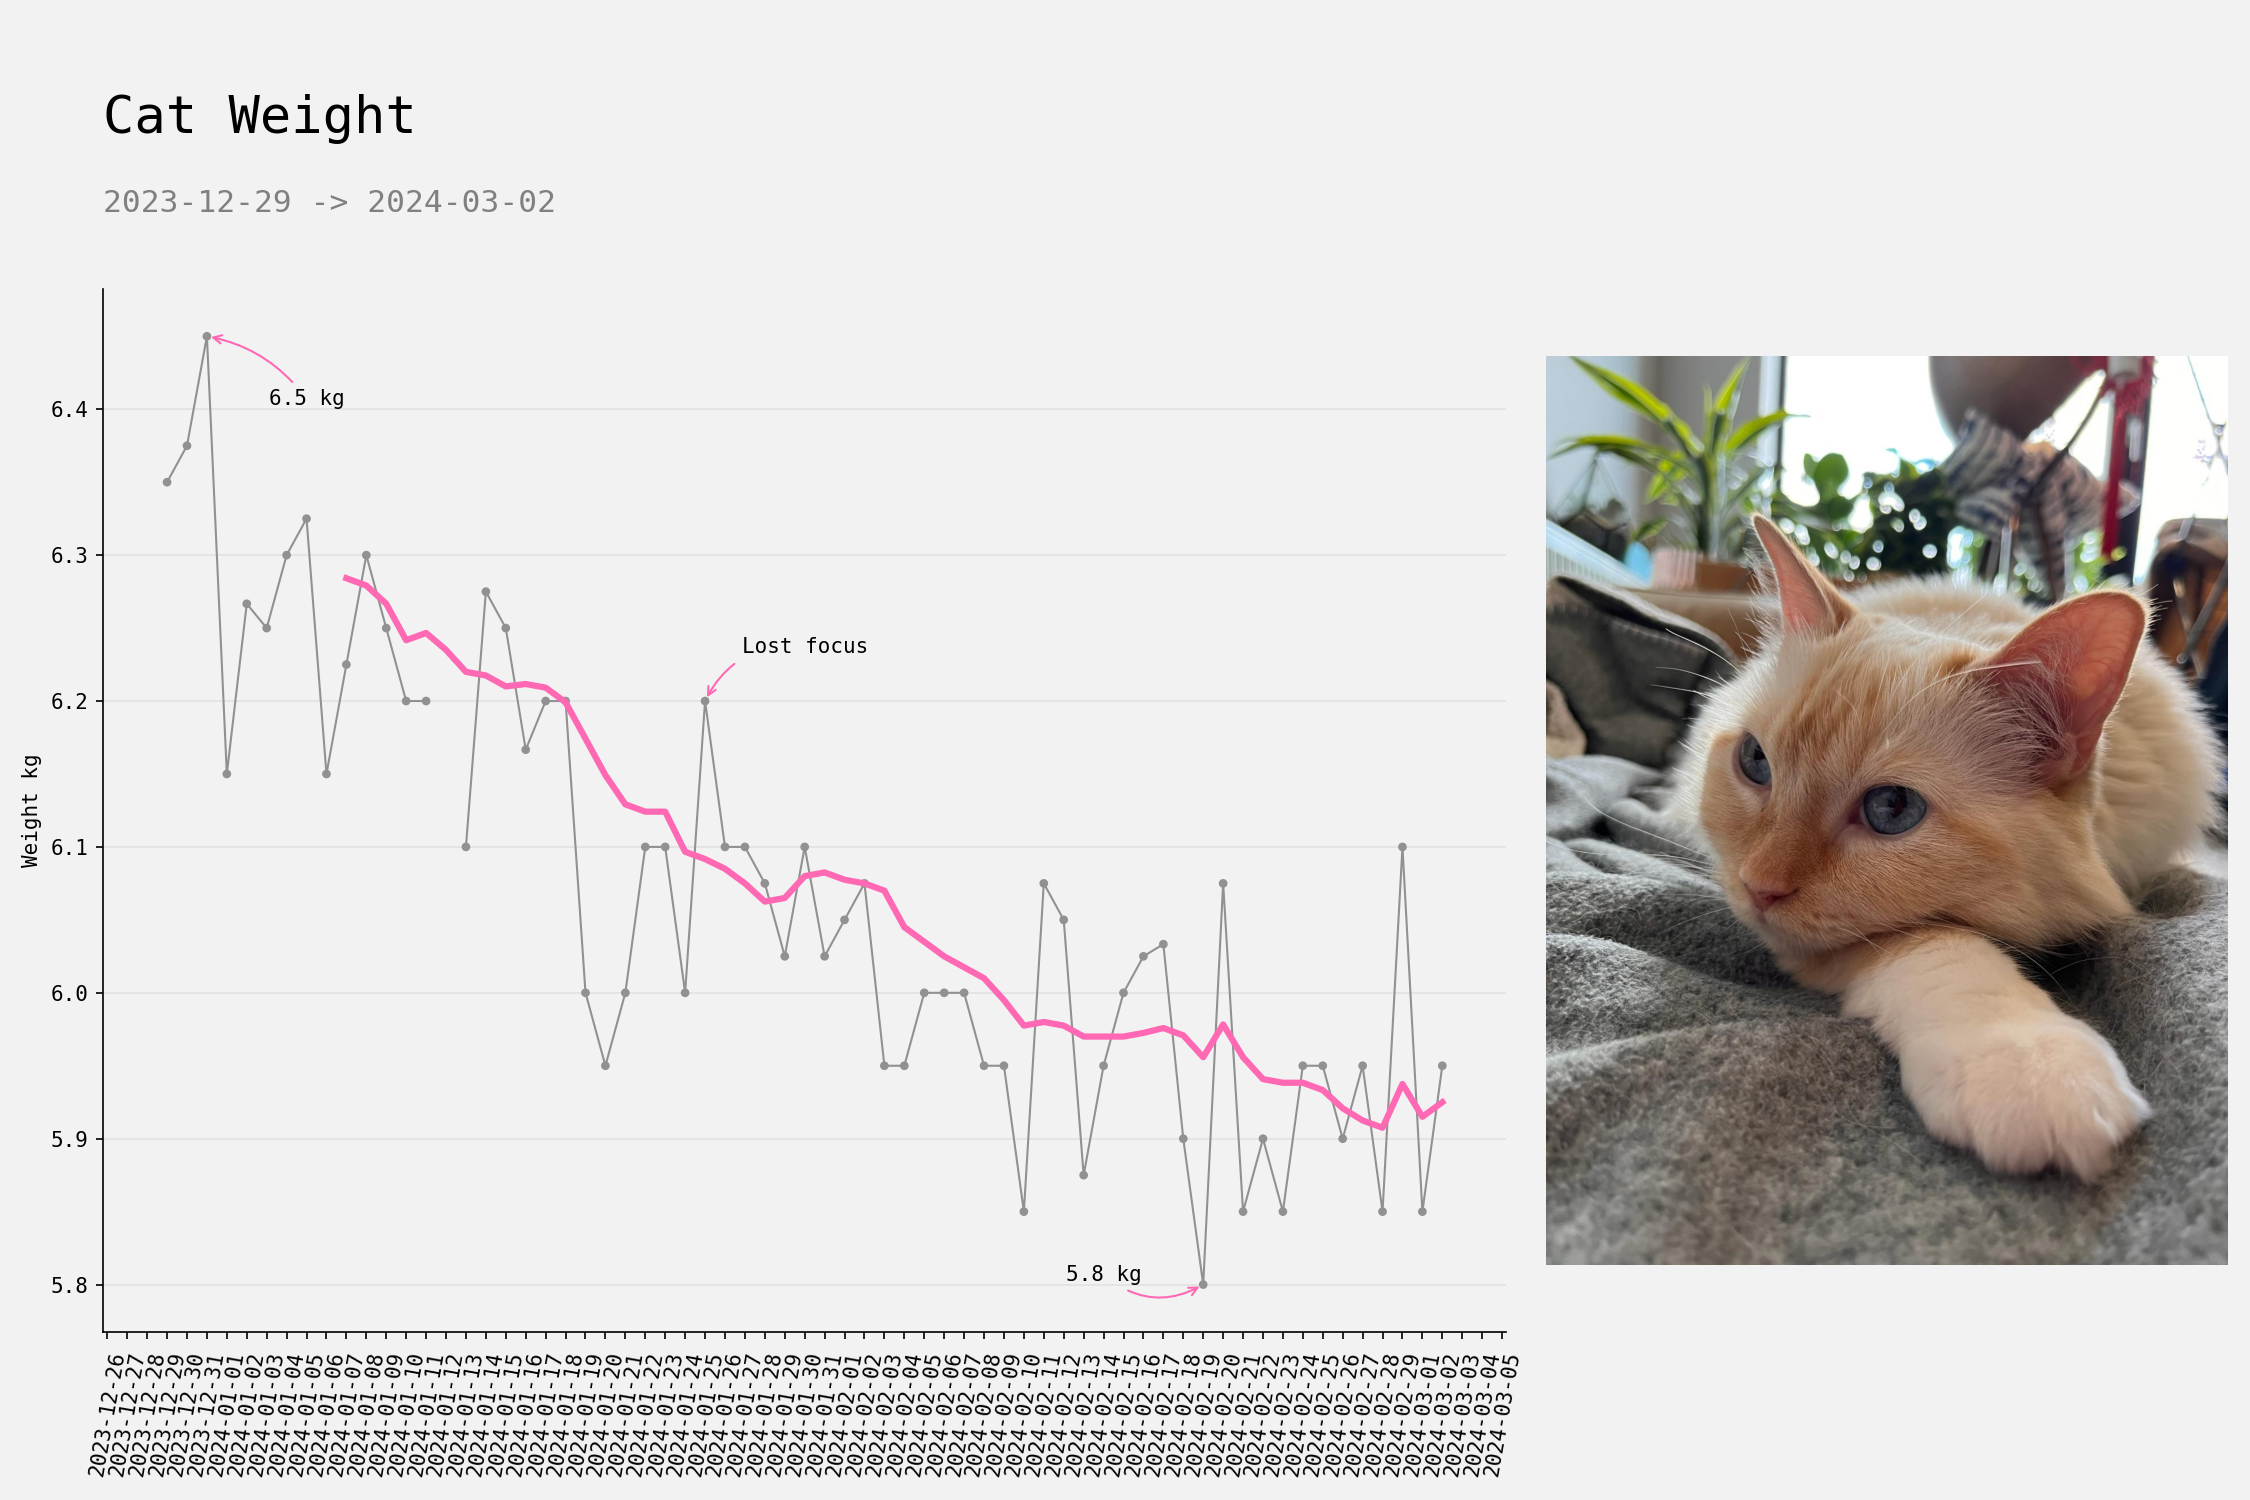
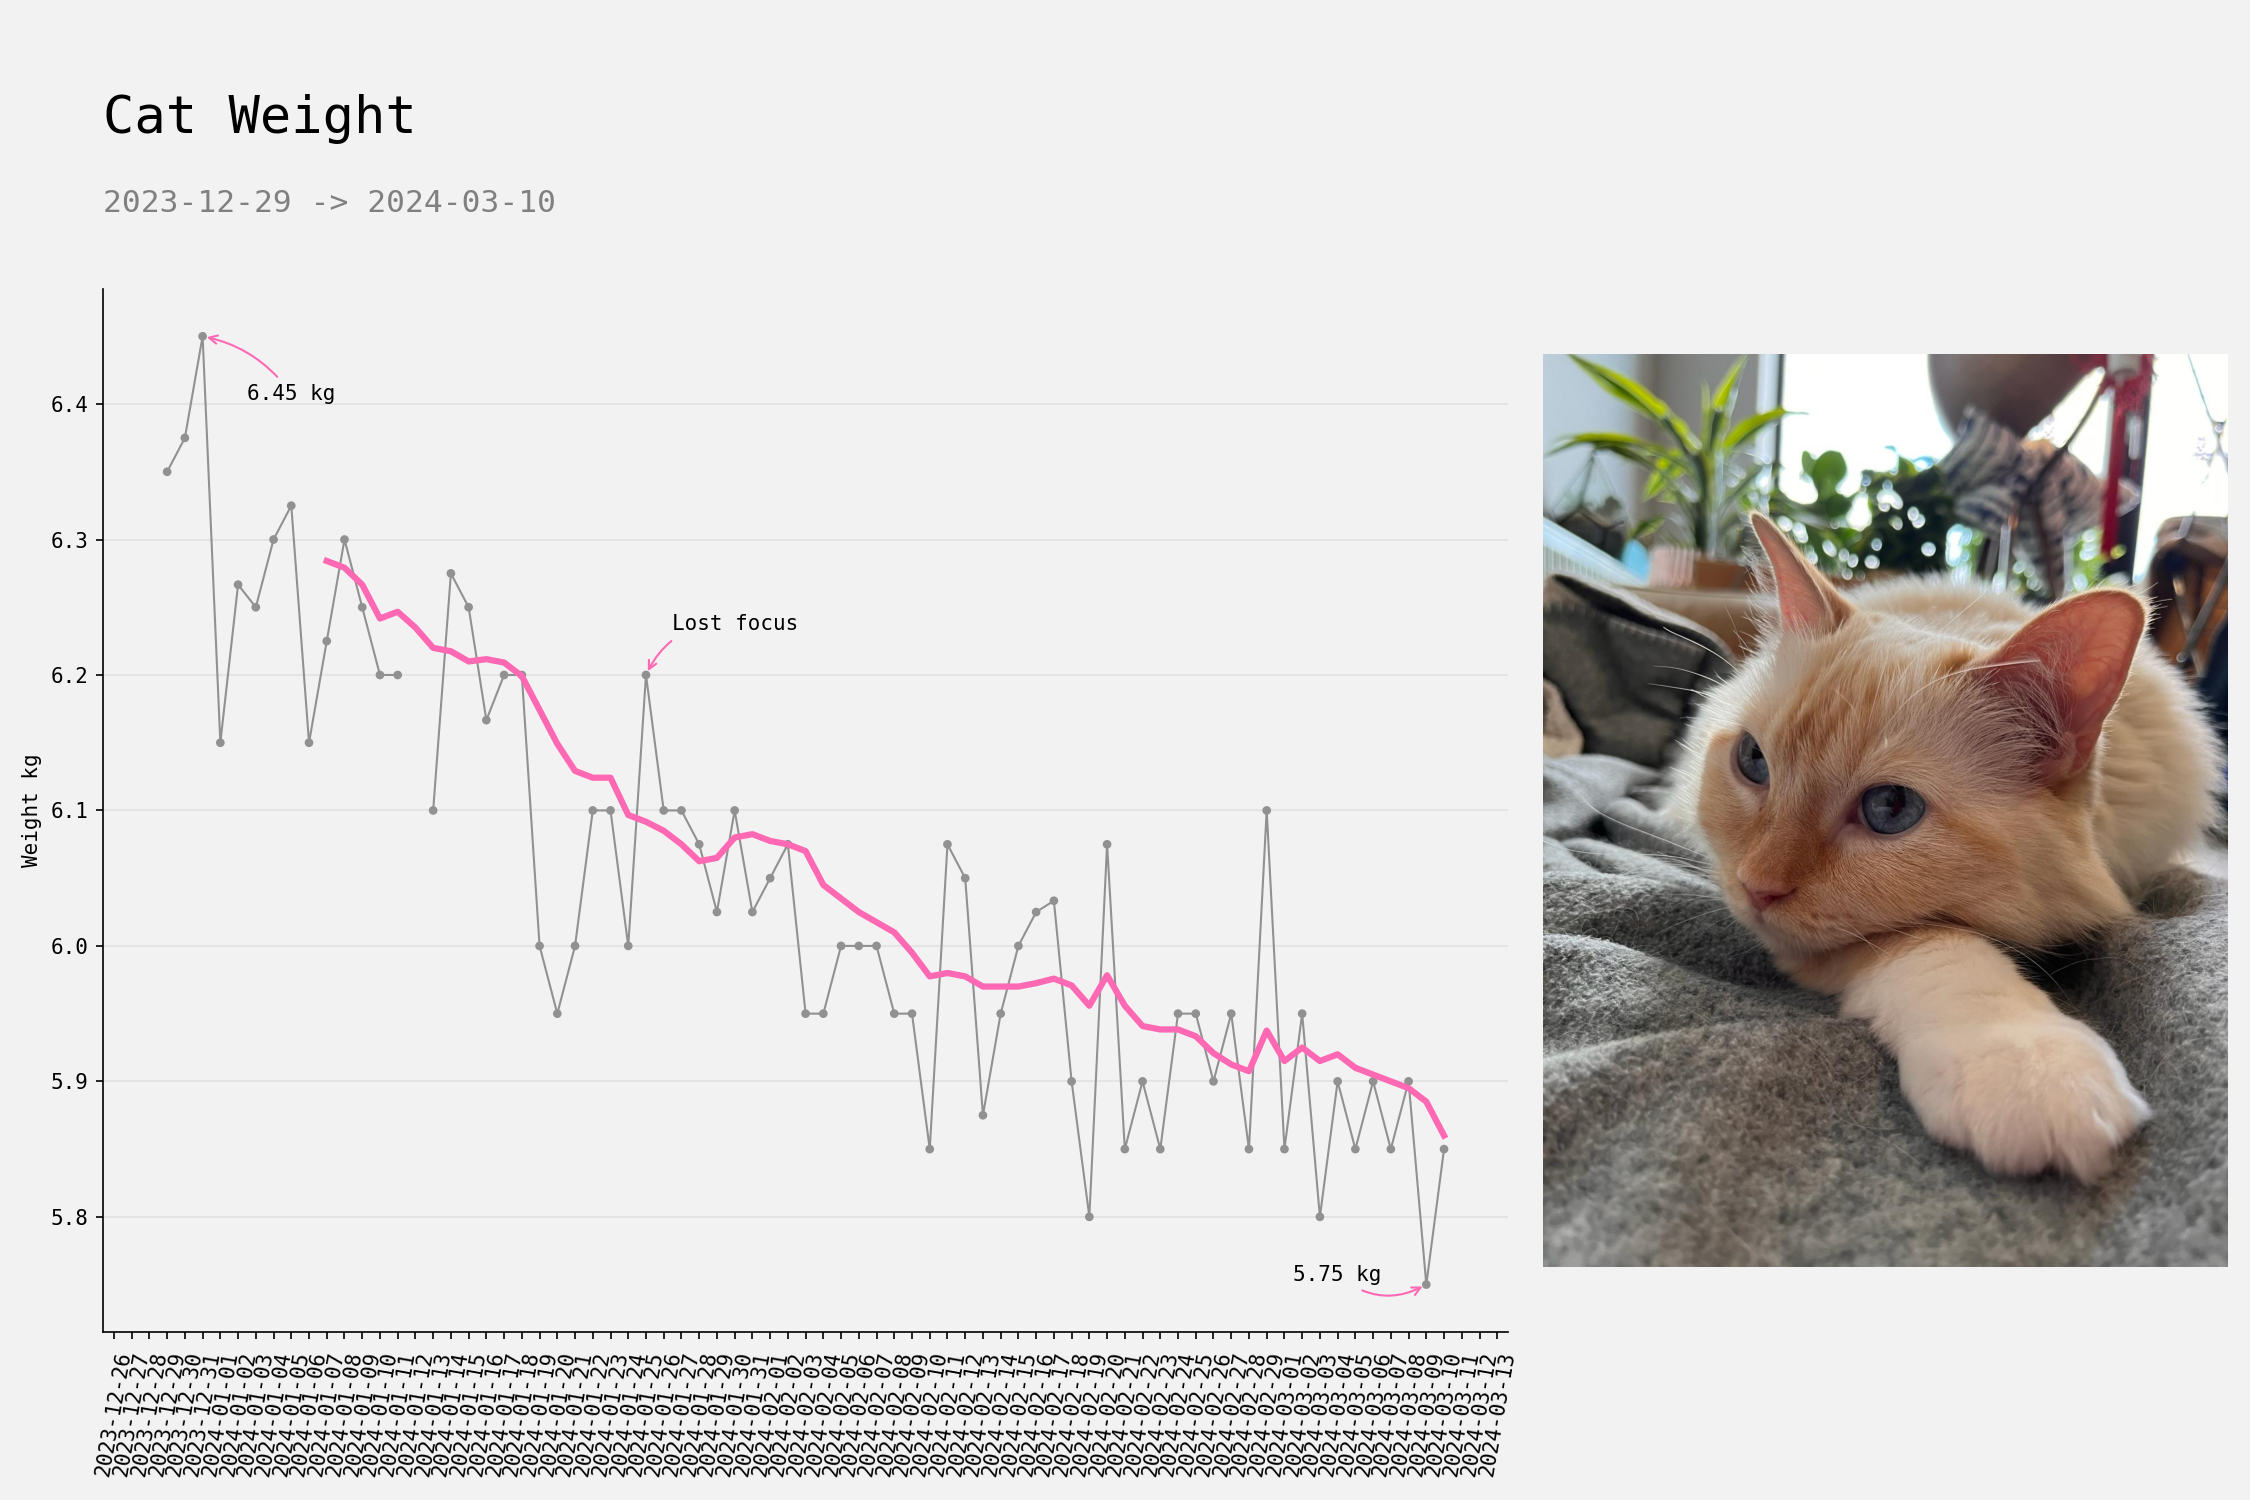
update catplot

diff --git a/plotting_examples/y2024/cat_weight/plot.py b/plotting_examples/y2024/cat_weight/plot.py
@@ -233,7 +233,7 @@ def main() -> mpl.figure.Figure:
 
         heaviest_idx = df["cat_daily_avg"].idxmax()
         _ = ax_dict["main"].annotate(
-            f"{df['cat_daily_avg'].loc[heaviest_idx].round(1)} kg",
+            f"{df['cat_daily_avg'].loc[heaviest_idx].round(2)} kg",
             # where the arrow should end up
             xy=(
                 df["datestamp"].iloc[heaviest_idx],
@@ -255,7 +255,7 @@ def main() -> mpl.figure.Figure:
 
         lightest_idx = df["cat_daily_avg"].idxmin()
         _ = ax_dict["main"].annotate(
-            f"{df['cat_daily_avg'].loc[lightest_idx].round(1)} kg",
+            f"{df['cat_daily_avg'].loc[lightest_idx].round(2)} kg",
             # where the arrow should end up
             xy=(
                 df["datestamp"].iloc[lightest_idx],
